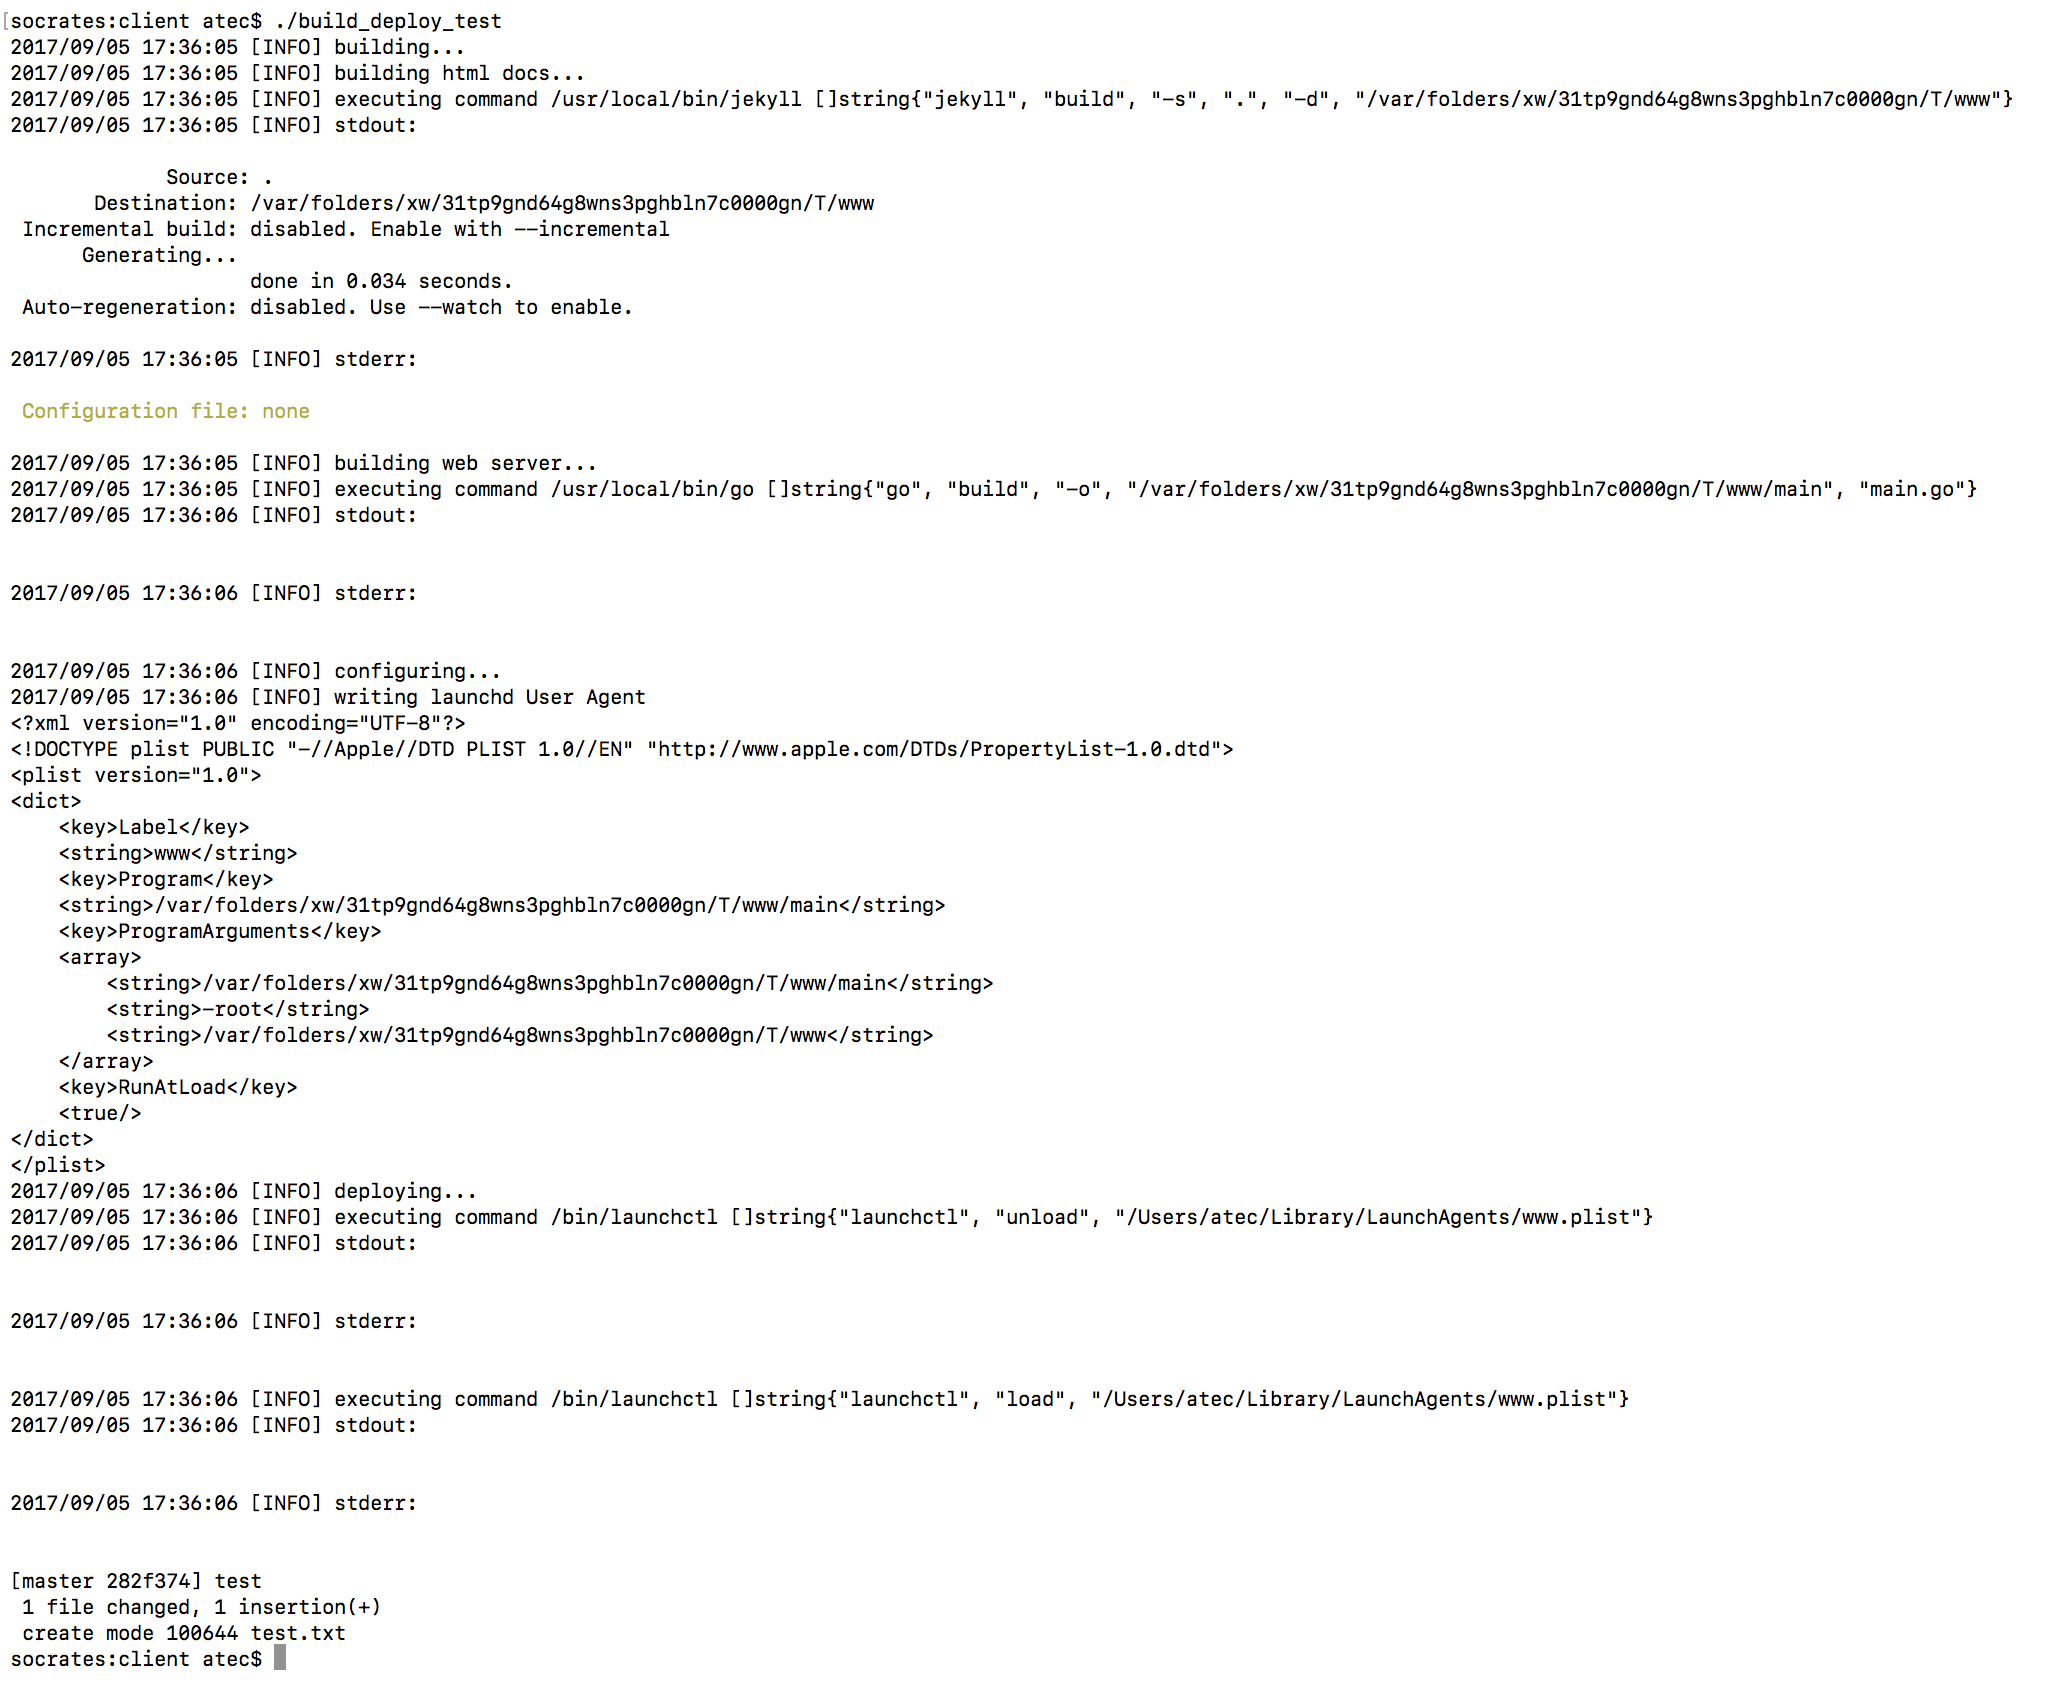
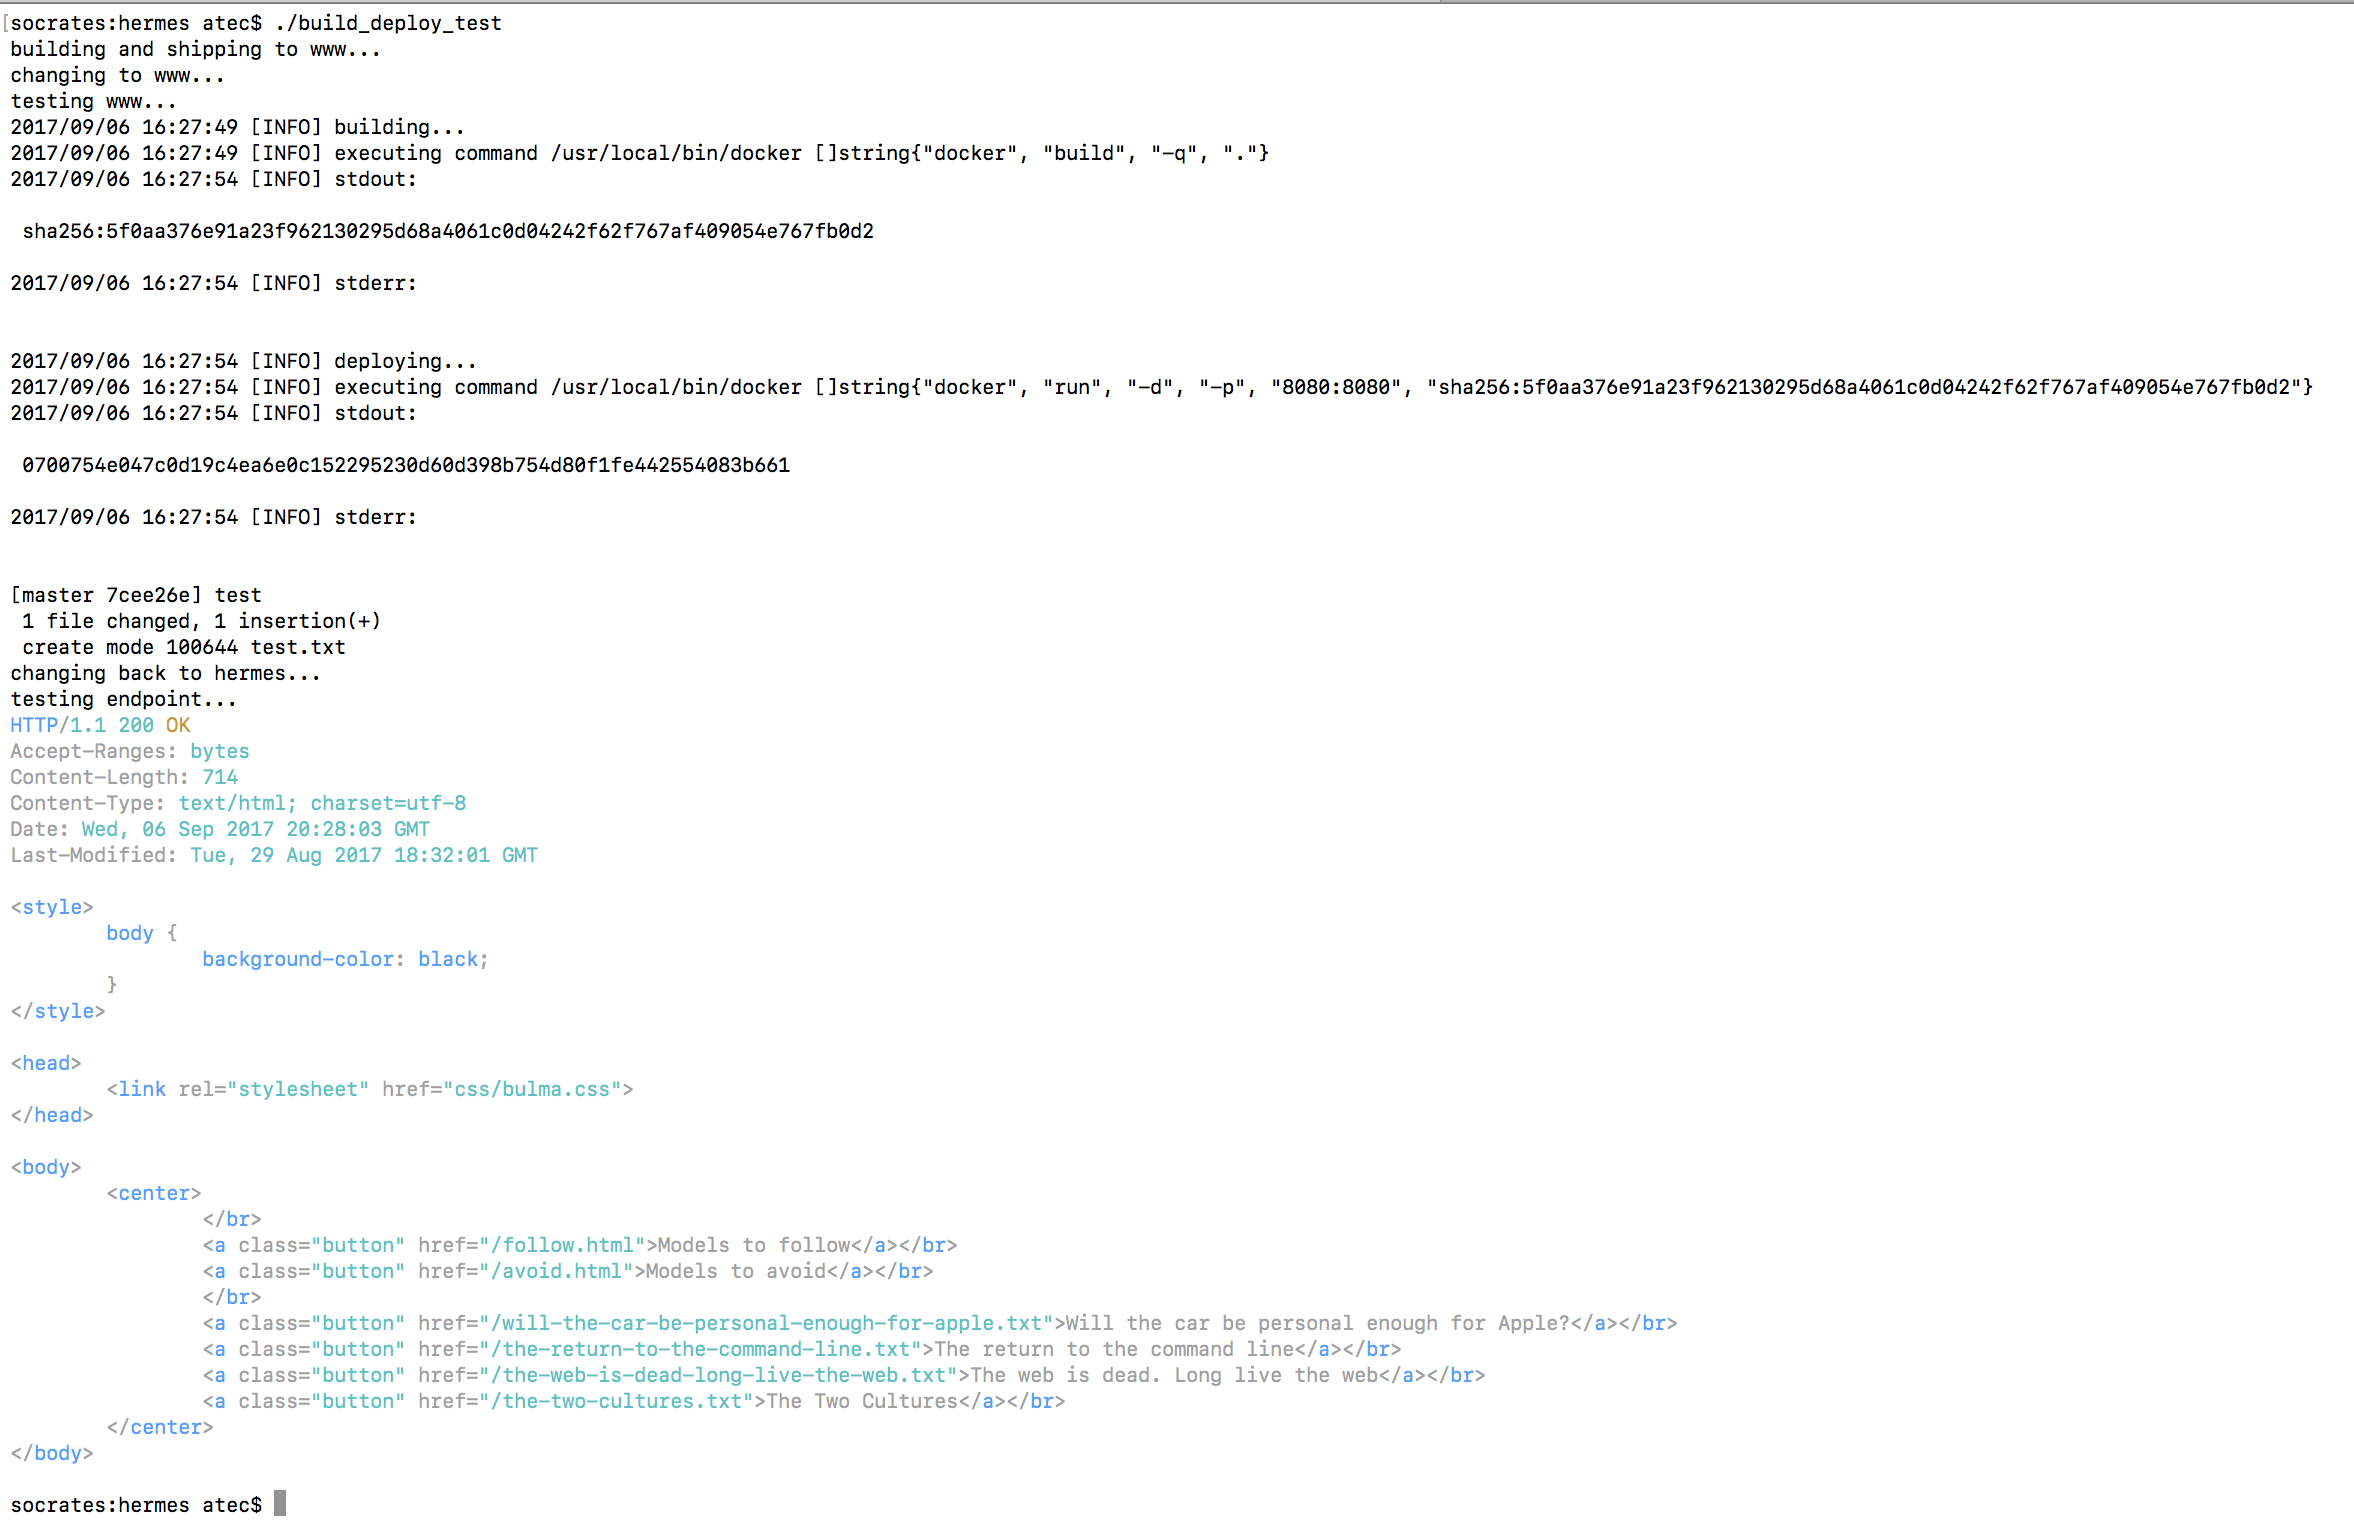
successfully builds and deploys in docker

diff --git a/main.go b/main.go
@@ -16,17 +16,12 @@ type temp interface {
 }
 
 func main() {
-	err := build()
+	ref, err := build()
 	if err != nil {
 		pretty.Logln("[FATAL] failed to build")
 		log.Fatal(err)
 	}
-	err = configure()
-	if err != nil {
-		pretty.Logln("[FATAL] failed to configure")
-		log.Fatal(err)
-	}
-	err = deploy()
+	_, err = deploy(ref)
 	if err != nil {
 		pretty.Logln("[FATAL] failed to deploy")
 		log.Fatal(err)

diff --git a/build.go b/build.go
@@ -1,0 +1,14 @@
+package main
+
+import (
+	"os/exec"
+	"strings"
+
+	"github.com/kr/pretty"
+)
+
+func build() (string, error) {
+	pretty.Logln("[INFO] building...")
+	ref, err := execute(exec.Command("docker", "build", "-q", "."))
+	return strings.Trim(ref, "\n"), err
+}

diff --git a/deploy.go b/deploy.go
@@ -1,0 +1,12 @@
+package main
+
+import (
+	"os/exec"
+
+	"github.com/kr/pretty"
+)
+
+func deploy(ref string) (string, error) {
+	pretty.Logln("[INFO] deploying...")
+	return execute(exec.Command("docker", "run", "-d", "-p", "8080:8080", ref))
+}

diff --git a/README.md b/README.md
@@ -19,17 +19,19 @@ i'd like to have some room for my own free and creative expression, and i don't 
 the first answer is that this particular implementation is dependent on a bunch of stuff already, so there are already some primitives that i have no plans to build myself
 - git
 - go
+- docker
 - jekyll
 - gce
 - aws
 - launchd
 
 i am open to the idea that modular parts of this project's goal are best done by some other tools, for example
-- docker for building, configuring, deploying and managing services 
-- terraform to abstract over all the infrastructure providers to provision remote resources
+- terraform or docker-machine to abstract over all the infrastructure providers and provision remote resources
 - others
 
 hopefully these all come in due time, but the criteria of "seamlessness" is pretty high here, and the flavors of the month everyone points to in my experience are anything but seamless (especially Jenkins. i'm not using Jenkins. get over it)
+
+i am not open to the idea of "not worrying about machines", i have a personal interest in the entire cloud stack, so most of this work will probably be at the level of "CaaS" and lower
 
 what this aims to be in the short to medium term is a reference implementation of an interface for my own personal website's (again, if you want to call it that) needs and dependencies, then use that as a poc to add support for other development frameworks to make it developer agnostic with as few opinions as possible (besides git. use git)
 
